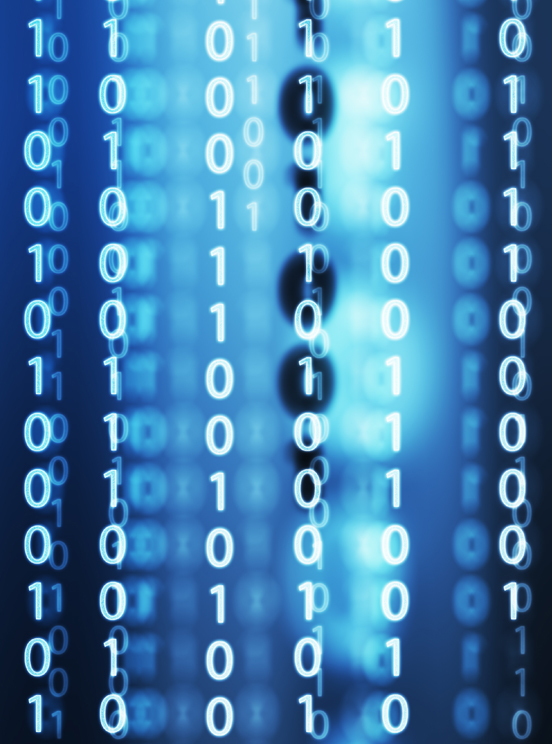
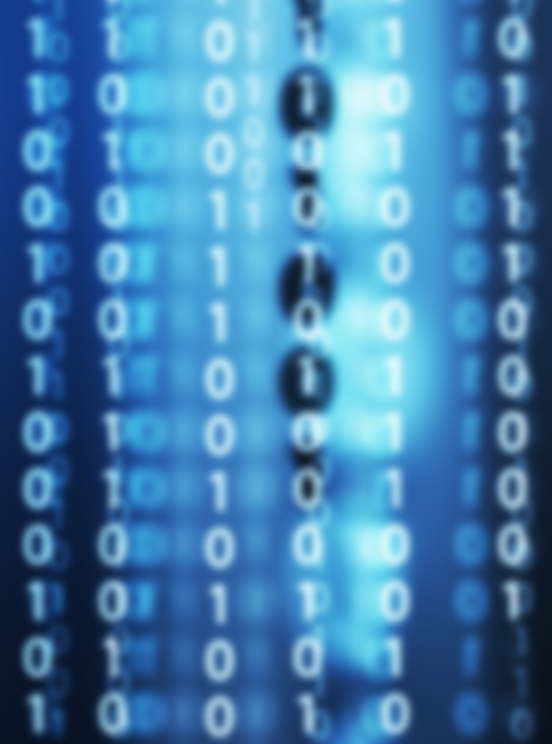
add black borders

diff --git a/src/app/home/home.component.scss b/src/app/home/home.component.scss
@@ -3,7 +3,7 @@
   border-top: 1.1vh solid rgba(0, 0, 0, 0); // 0.6rem
   border-bottom: 1vh solid rgba(0, 0, 0, 0); // 0.6rem // 1.1 -> 1.0 due to shadow
   height: 60vh;
-  background: rgba(0, 0, 0, 0.87);
+  background: black;
   // border: 0.3rem solid #e4e3c8;
   border-top-left-radius: 0.3rem;
   border-bottom-left-radius: 0.3rem;
@@ -57,16 +57,16 @@
     box-shadow: 1px 3px 5px rgba(0, 0, 0);
     border: 0.25vh solid black;
   }
-  margin-right: 0.3vh;
-  // border-top-right-radius: 0;
-  // border-bottom-right-radius: 0;
+  margin-right: 0vh;
+  border-top-right-radius: 0;
+  border-bottom-right-radius: 0;
   background-image: linear-gradient(rgba(0, 0, 0, 0.84), rgba(0, 0, 0, 0.84)),
     url("/assets/images/tile_vert.jpg");
 }
 
 .crtext {
-  // border-top-left-radius: 0;
-  // border-bottom-left-radius: 0;
+  border-top-left-radius: 0;
+  border-bottom-left-radius: 0;
   width: 20vh;
   display: flex;
   justify-content: space-between;

diff --git a/src/app/head-bar/head-bar.component.html b/src/app/head-bar/head-bar.component.html
@@ -1,7 +1,7 @@
 <!-- <div class="container-fluid m-0 p-3"> -->
 <div class="d-flex m-0 p-0">
   <div class="blockScroll m-0 p-0">&nbsp;&nbsp;</div>
-  <div class="hello mt-3 pb-1 pt-2 px-3">
+  <div class="hello mt-3 py-1 px-3">
     <span style="color: rgb(143, 224, 235)">hello</span>World<span
       style="color: rgb(255, 136, 0)"
       >()</span

diff --git a/src/styles.scss b/src/styles.scss
@@ -46,8 +46,8 @@ $portfolio-theme: mat-light-theme(
   background-image: url("assets/images/stock1.jpg");
   background-size: 100%;
   height: 100%;
-  filter: blur(3px);
-  transform: scale(1.007);
+  filter: blur(3.5px);
+  transform: scale(1.02);
 }
 
 .wow {

diff --git a/src/app/head-bar/head-bar.component.scss b/src/app/head-bar/head-bar.component.scss
@@ -6,6 +6,7 @@
   box-shadow: 0px 1px 2px black;
   border-radius: 0.3rem;
   color: #e4e3c8;
+  border: 1.5vh solid black;
   // img {
   //   height: calc(0.8vw + 0.8vh + 0.4vmin);
   //   position: relative;

diff --git a/src/app/navbar/navbar.component.scss b/src/app/navbar/navbar.component.scss
@@ -3,5 +3,6 @@
   background: rgba(0, 0, 0, 0.87);
   box-shadow: 0px 1px 2px black;
   border-radius: 0.3rem;
+  border: 1vh solid black;
   // border: 1px solid yellow;
 }

diff --git a/src/app/foo-bar/foo-bar.component.scss b/src/app/foo-bar/foo-bar.component.scss
@@ -31,6 +31,7 @@
     top: -0.05rem;
   }
   // border: 1px solid purple;
+  border: 1vh solid black;
 }
 
 .verCont {
